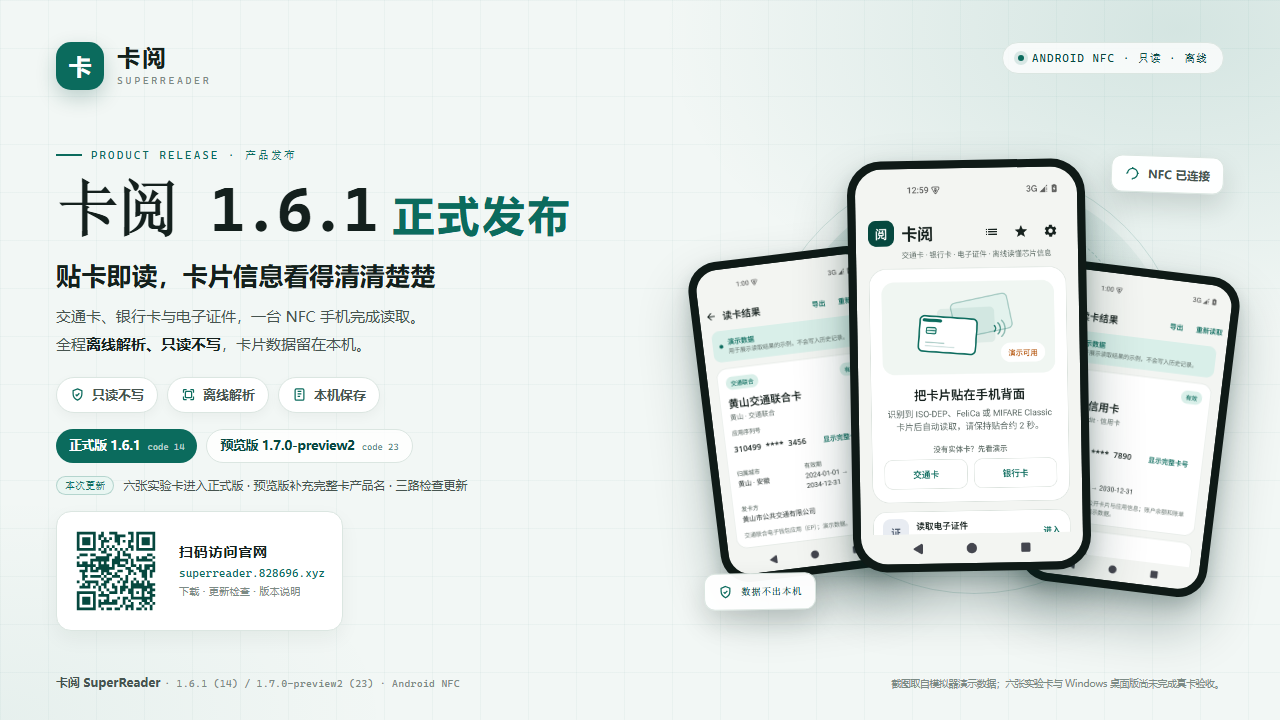
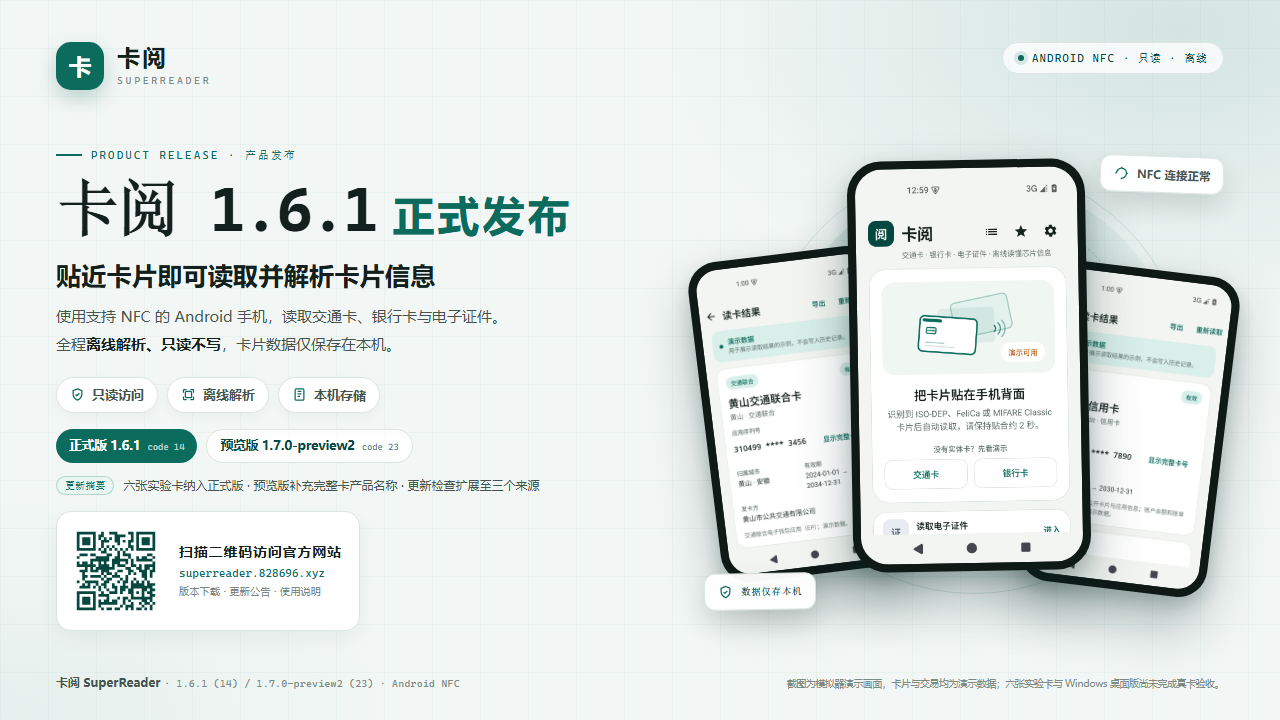
宣传图文案改为正式表述并重制图片

diff --git a/README.md b/README.md
@@ -9,7 +9,7 @@
 
 > 当前安装包均为**测试签名**，未上架应用商店，也不是银行或交通运营商的官方工具。六张实验卡、Windows 桌面版、卡产品名与全球 BIN 推断都还没有完成真实卡片验收。
 
-![卡阅 1.6.1 正式发布：贴卡即读，交通卡、银行卡与电子证件信息](docs/images/release-1.6.1-banner.png)
+![卡阅 1.6.1 正式发布：贴近卡片即可读取并解析卡片信息](docs/images/release-1.6.1-banner.png)
 
 ## 下载
 
